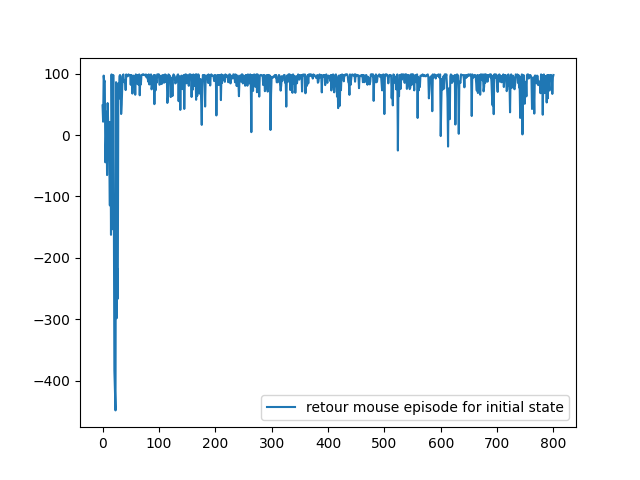
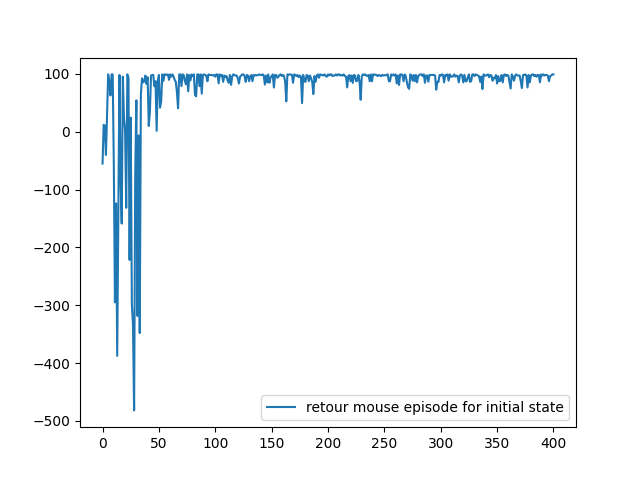
u

diff --git a/actor_critic_cat_mouse/agent.py b/actor_critic_cat_mouse/agent.py
@@ -112,10 +112,10 @@ class Cat(Tool):
         self.optpath = optpath
         self.loadpath = loadpath
         self.buffer = Buffer()
-    def Qf(self,state:dict,actions:list[np.ndarray]):
-        return self.q(self.rep_cl(state["cat"]),self.rep_cl(state["mouse"]),self.rep_ac(actions[0]),self.rep_ac(actions[1]))
-    def Qf_target(self,state:dict,actions:int):
-        return self.q_target(self.rep_cl(state["cat"]),self.rep_cl(state["mouse"]),self.rep_ac(actions[0]),self.rep_ac(actions[1]))
+    def Qf(self,state:dict,actions:dict):
+        return self.q(self.rep_cl(state["cat"]),self.rep_cl(state["mouse"]),self.rep_ac(actions["cat"]),self.rep_ac(actions["mouse"]))
+    def Qf_target(self,state:dict,actions:dict):
+        return self.q_target(self.rep_cl(state["cat"]),self.rep_cl(state["mouse"]),self.rep_ac(actions["cat"]),self.rep_ac(actions["mouse"]))
     def load(self,start:int):
         self.q.load_state_dict(torch.load(os.path.join(self.loadpath,f"q_0_load_{start}.pt"),weights_only=True))
         self.p.load_state_dict(torch.load(os.path.join(self.loadpath,f"pi_0_load_{start}.pt"),weights_only=True))
@@ -128,12 +128,11 @@ class Cat(Tool):
         for (name_q, param_q),(name_q_target,param_q_target) in zip(self.q.state_dict().items(),self.q_target.state_dict().items()):
             param_q_target.copy_(self.tau*param_q + (1.0 - self.tau)*param_q_target)
     def updatePi(self,
-                 api0:int,
-                 api1:int,
+                 api:dict,
                  logpi,
-                 state):
+                 state:dict):
 #        self.optimizerpi.zero_grad()
-        advantage = self.Qf(state,[api0,api1]).squeeze()
+        advantage = self.Qf(state,api).squeeze()
         advantage = advantage.detach()
         NegativPseudoLoss = torch.mean(torch.mul(logpi.squeeze(),advantage)) 
         NegativPseudoLoss.backward()
@@ -141,11 +140,10 @@ class Cat(Tool):
         return NegativPseudoLoss
     def updateQ(self,
                 states:dict,
-                actions0, 
-                actions1, 
+                actions:dict,
                 targets):  
         self.optimizer_q.zero_grad()
-        loss = F.mse_loss(self.Qf(states,[actions0,actions1]).squeeze(),targets.squeeze())
+        loss = F.mse_loss(self.Qf(states,actions).squeeze(),targets.squeeze())
         loss.backward()
         self.optimizer_q.step()
         return loss

diff --git a/actor_critic_cat_mouse/a22c.py b/actor_critic_cat_mouse/a22c.py
@@ -59,16 +59,13 @@ def A2C(env:grid,
                                                           sample["new_state"]["mouse"],
                                                           a_prim_tab["mouse"]).detach().squeeze()
                 else:
-                    targets =  torch.Tensor(sample["reward"]) + gamma * agent.Qf_target(sample["new_state"],[a_prim_tab["cat"],a_prim_tab["mouse"]]).detach().squeeze()
+                    targets =  torch.Tensor(sample["reward"]) + gamma * agent.Qf_target(sample["new_state"],a_prim_tab).detach().squeeze()
                 #update critic
                 for k in range(K):
                     if isinstance(agent,Mouse):
                         loss_ = agent.updateQ(sample["state"]["mouse"],sample["action"]["mouse"],targets)
                     else:
-                        loss_ = agent.updateQ(sample["state"],
-                                            sample["action"]["cat"],
-                                            sample["action"]["mouse"],
-                                            targets)   
+                        loss_ = agent.updateQ(sample["state"],sample["action"],targets)   
                 api = {"cat":[],"mouse":[]}
                 logits = {"cat":[],"mouse":[]}
                 agent.optimizerpi.zero_grad()
@@ -90,8 +87,7 @@ def A2C(env:grid,
                                     sample["state"]["mouse"])
                 else:
                     nploss = agent.updatePi(
-                                    api["cat"],
-                                    api["mouse"],
+                                    api,
                                     logpi,
                                     sample["state"])
                 #exit()

diff --git a/actor_critic_cat_mouse/env2.py b/actor_critic_cat_mouse/env2.py
@@ -57,7 +57,7 @@ class grid:
         return s_out
     def reward_cat(self):
         self.catch+=1*(self.cat_pos==self.mouse_pos)
-        reward = (10.0)*(self.cat_pos==self.mouse_pos)  + (-1.0)*(self.cat_pos ==self.cat_previous) 
+        reward = (100.0)*(self.cat_pos==self.mouse_pos)  + (-10.0)*(self.cat_pos ==self.cat_previous) 
         return reward
     def reward_mouse(self):
         reward = (100.0)*(self.target_mouse==self.mouse_pos) + (-10.0)*(self.mouse_pos==self.mouse_previous)
